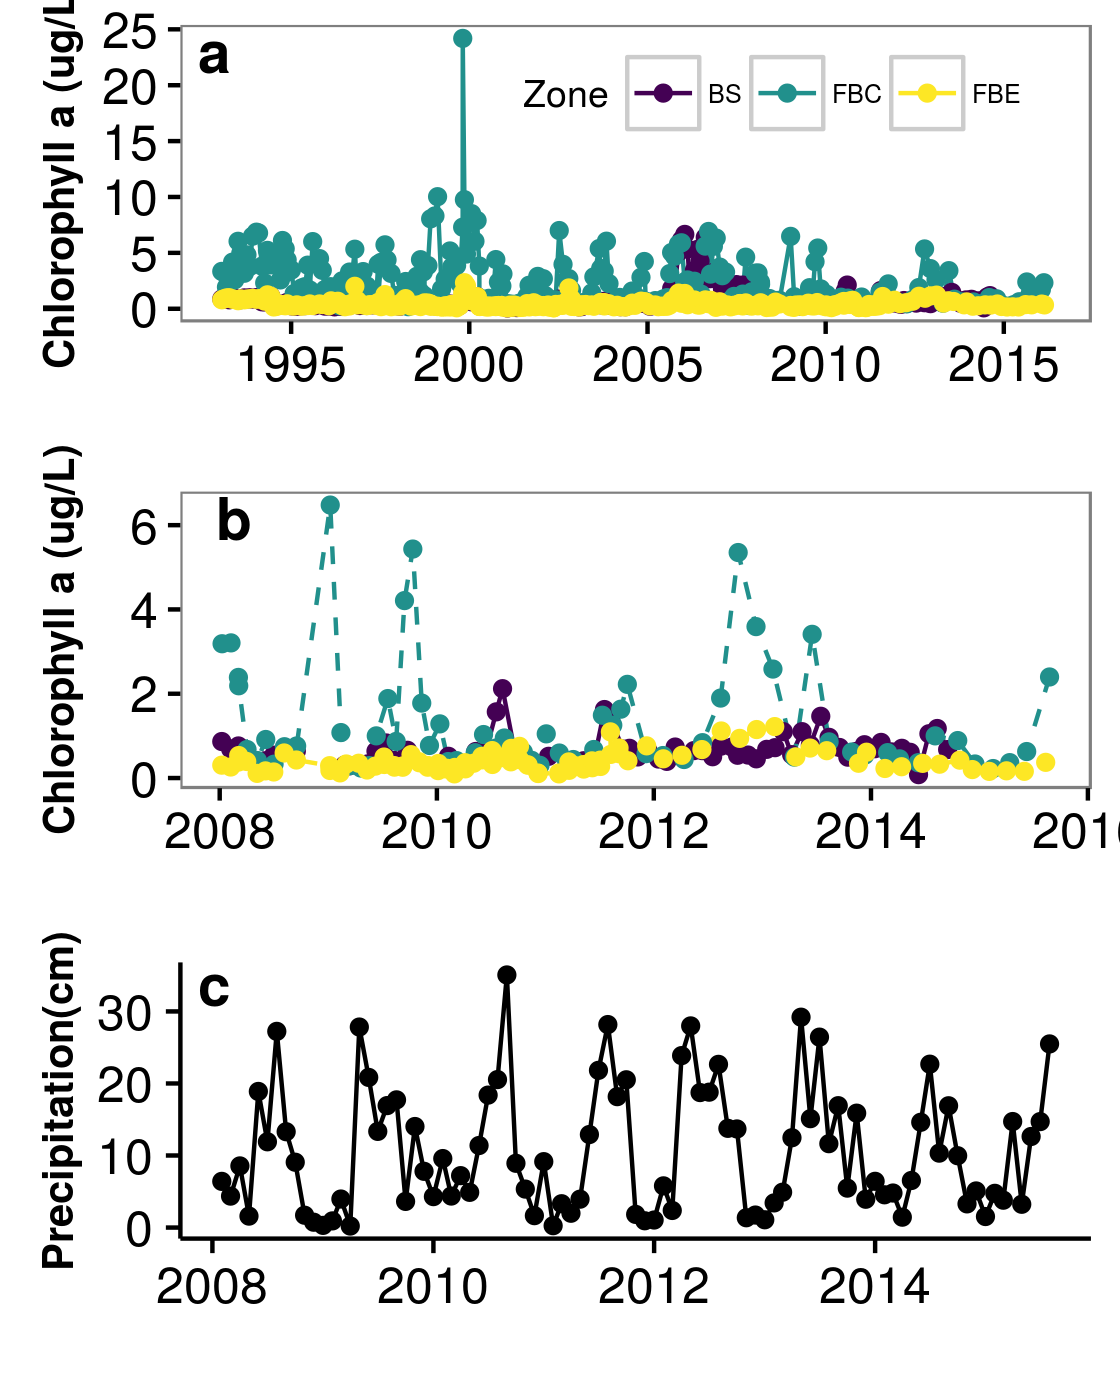
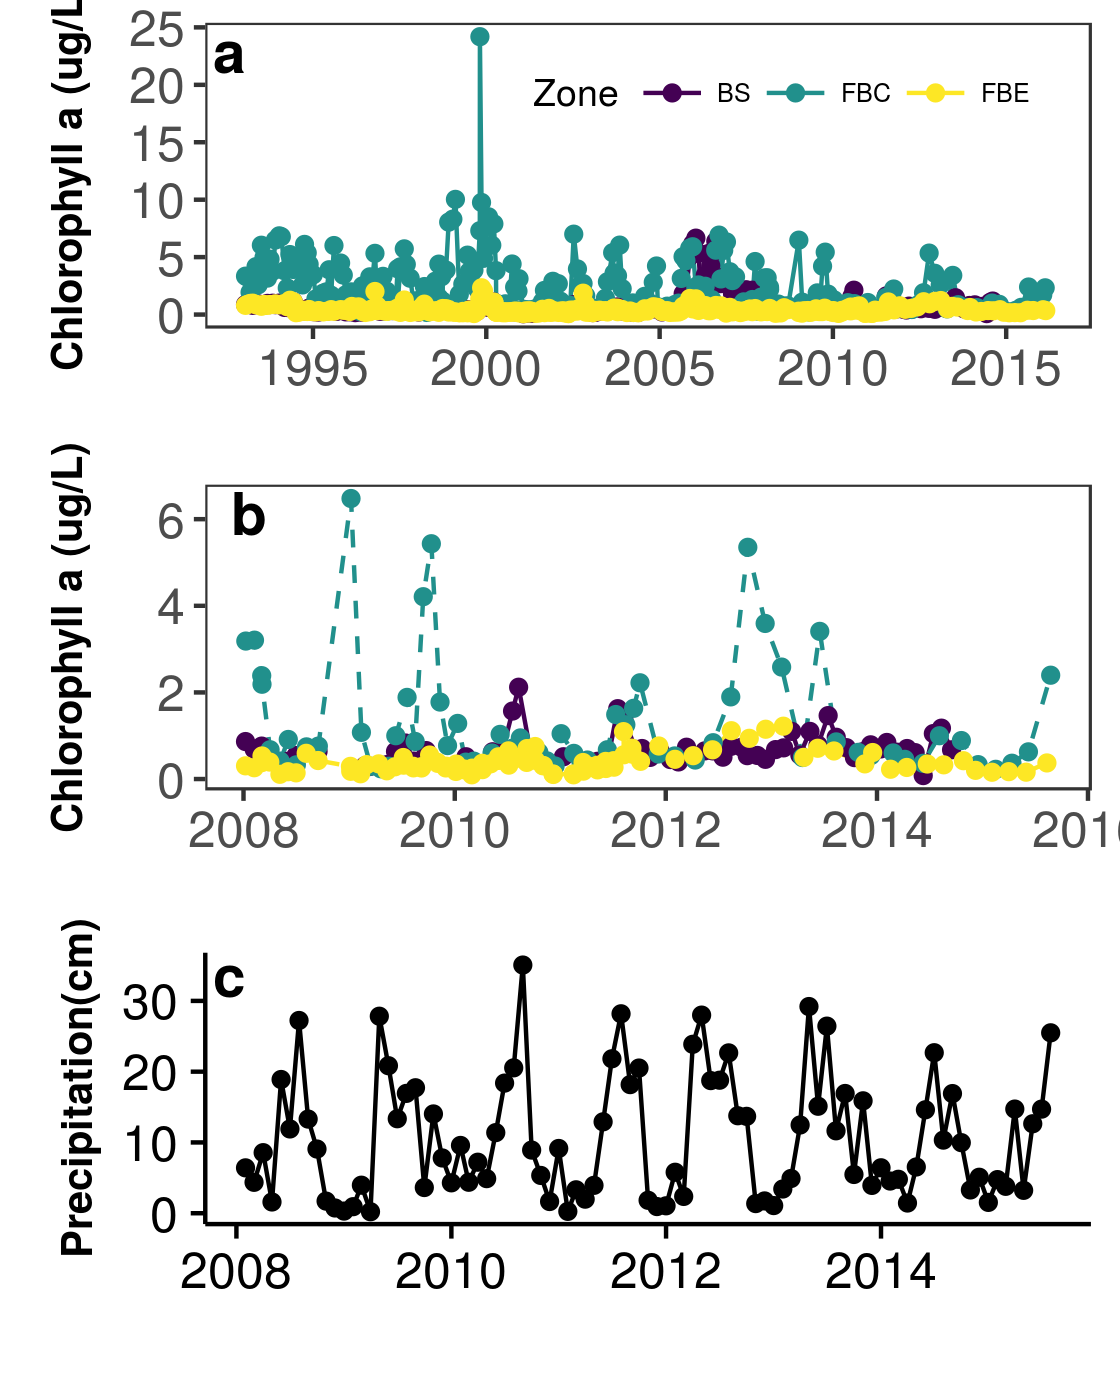
address precipitation comments

Changed region(s): [[0.0312, 0.0, 0.9688, 0.2764], [0.0312, 0.645, 0.9688, 0.9521], [0.0312, 0.3071, 1.0, 0.6143]]

diff --git a/manuscripts/est_coast/dataflowchl.tex b/manuscripts/est_coast/dataflowchl.tex
@@ -142,7 +142,7 @@ We used data from an independent long-term (1993 – 2015) water quality monitor
 \section{Results}
 \label{results}
 
-The longer-term record indicates that there was distinct zonation of the chlorophyll distribution in Florida Bay (Figure 2a). Concentrations in Barnes Sound and eastern Florida Bay were generally less than 2 \si{\micro\gram\per\liter} throughout the study while concentrations in central Florida Bay often exceeded 5 \si{\micro\gram\per\liter}. Concentrations in the central Bay declined notably in the latter half of the long-term record. One period of exceptionally high chlorophyll occurred in Barnes Sound in 2005 during an algal bloom event \citep{rudnick_2006}. Post-2008, chlorophyll concentrations were almost exclusively lower than 2 \si{\micro\gram\per\liter} in all three regions of the open Bay (Figure 2b). Exceptions to this threshold occurred in 2009 and 2012 during prolonged periods of above-average precipitation (Figure 2c).
+The longer-term record indicates that there was distinct zonation of the chlorophyll distribution in Florida Bay (Figure 2a). Concentrations in Barnes Sound and eastern Florida Bay were generally less than 2 \si{\micro\gram\per\liter} throughout the study while concentrations in central Florida Bay often exceeded 5 \si{\micro\gram\per\liter}. Concentrations in the central Bay declined notably in the latter half of the long-term record. One period of exceptionally high chlorophyll occurred in Barnes Sound in 2005 during an algal bloom event \citep{rudnick_2006}. Post-2008, chlorophyll concentrations were almost exclusively lower than 2 \si{\micro\gram\per\liter} in all three regions of the open Bay (Figure 2b). Exceptions to this threshold occurred following the summer of 2009, which was preceeded by a major drought, and following the summer of 2012 when cumulative precipitation was the highest of any year during the study period (151.8 cm).  
 
 Past observations of a decreasing west to east chlorophyll gradient (Figure 3) are supported by the high resolution chlorophyll maps from Dataflow analysis (Figure 4). Like the discrete grab samples, the chlorophyll maps show lower concentrations in the eastern Bay relative to the central Bay or the Barnes Sound regions. The magnitude and extent of the large central Bay chlorophyll peak measured from grab samples in late 2012 is evident in the chlorophyll map from December 2012 (Figure 4). The maps also reveal important details about the location and shape of water quality boundaries between adjacent sub-basins of the Bay. Contrary to our expectation, we did not find the presence of sharp water quality boundaries between the central and eastern Bay. Instead, with the exception of July 2015, this boundary was diffuse. We did, however, observe a consistently sharp boundary between the Seven Palm chain-of-lakes (Seven Palm Lake, Monroe Lake, Terrapin Bay) and the central Bay (Figure 4). 
 
@@ -236,7 +236,7 @@ Our mapping technique resolved critical details about the spatial variability of
 \begin{figure*}
   \centering
   \includegraphics[width=0.75\textwidth]{../../figures/chltimeseries.png}
-  \caption{a, b) Time series of average chlorophyll concentration within Florida Bay water quality zones. BS = Barnes Sound, FBC = Florida Bay Central, FBE = Florida Bay East. c) Precipitation during the study period. Precipitation data shown are composite means of three gages in the Florida Bay watershed.}
+  \caption{a, b) Time series of average chlorophyll concentration within Florida Bay water quality zones. BS = Barnes Sound, FBC = Florida Bay Central, FBE = Florida Bay East. c) Precipitation during the study period. Precipitation data shown are cumulative monthly totals composited from three gages in the Florida Bay watershed.}
   \label{fig:2}
 \end{figure*}
 
